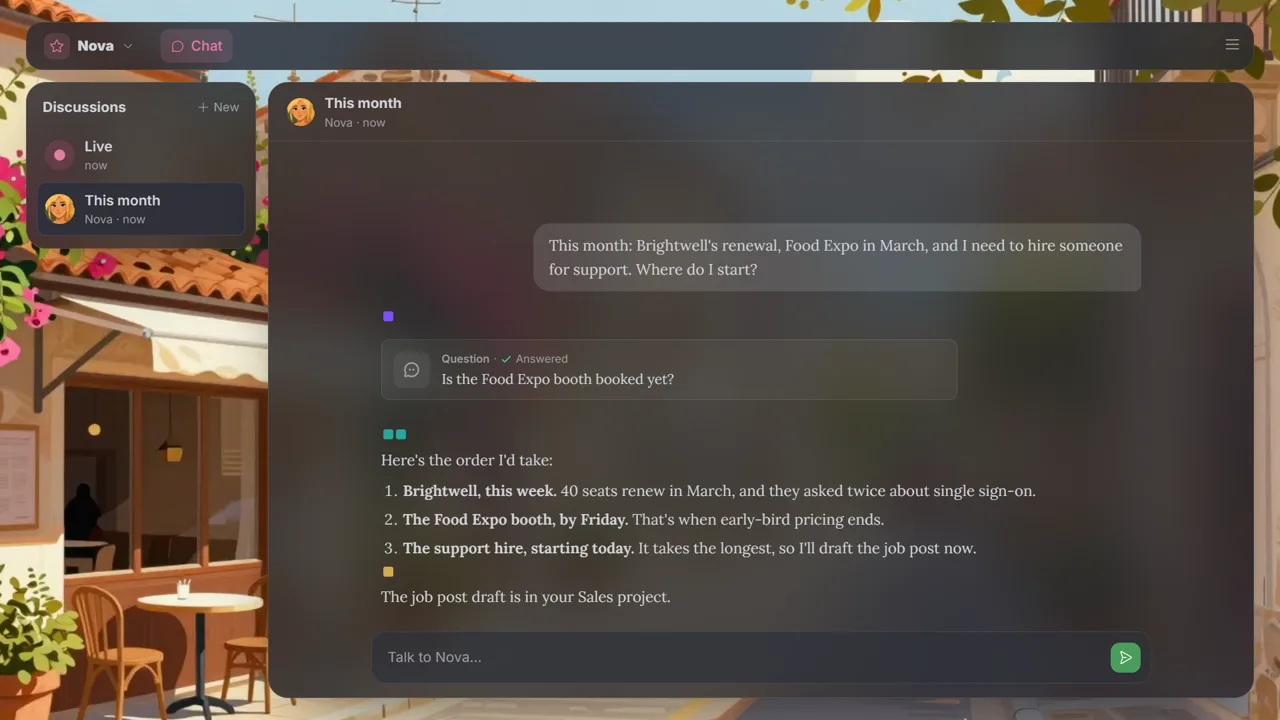
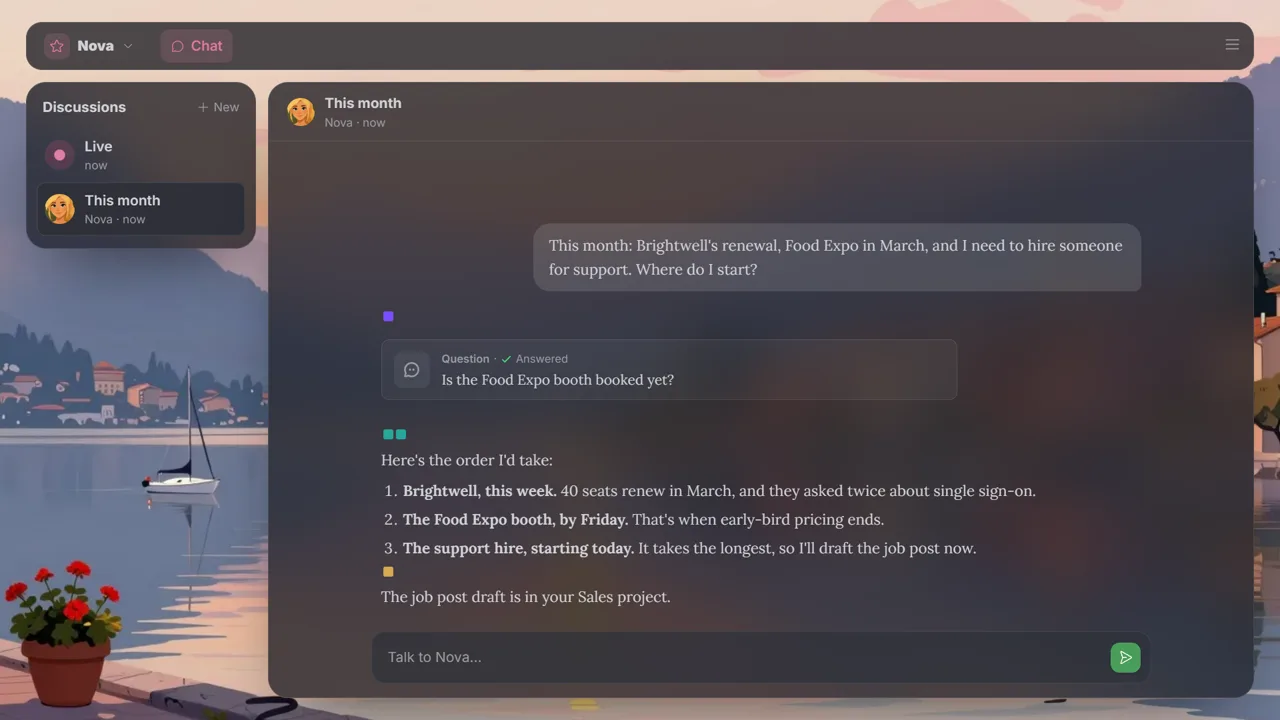
Cookbook video 00: new cut (2:12), poster and transcript

diff --git a/site/pages/fr/cookbook/videos/talking-to-nova/index.html b/site/pages/fr/cookbook/videos/talking-to-nova/index.html
@@ -1,6 +1,6 @@
 <!--page {"title":"Parler à Nova · Vidéo RedLeaf","description":"Épisode 00 des vidéos RedLeaf : une première vraie conversation avec Nova, chaque étape affichée au moment où elle la fait, une autorisation avant toute action risquée, et tout ce qu’une discussion peut lancer.","layout":"doc","section":"cookbook","slug":"videos/talking-to-nova"}-->
 <header class="cookbook-hero">
-  <p class="eyebrow">Vidéo · Épisode 00 · 2:18 · en anglais</p>
+  <p class="eyebrow">Vidéo · Épisode 00 · 2:12 · en anglais</p>
   <h1>Parler à Nova</h1>
   <p class="doc-lede">On n’apprend pas RedLeaf en cliquant dans des menus. On lui parle. Une première vraie conversation, ce qu’est un agent en dessous, et tout ce qu’une discussion peut lancer. La vidéo est en anglais ; la transcription ci-dessous est en français.</p>
 </header>
@@ -23,7 +23,7 @@
   <p>On n’apprend pas RedLeaf en cliquant dans des menus. On lui parle.</p>
   <p>Je suis Nova, l’agent fourni avec RedLeaf. Ayons une première conversation, une vraie.</p>
   <h3>Un premier message</h3>
-  <p>Ouvrez une discussion et dites ce que vous avez sur les bras, avec vos mots. Pas de formulation spéciale. S’il manque quelque chose, je pose la question au lieu de deviner. Puis je reviens avec un plan concret : le renouvellement d’abord, parce qu’il y a de l’argent en jeu, puis le salon, et le recrutement en dernier, parce que c’est ce qui prend le plus de temps.</p>
+  <p>Ouvrez une discussion et dites ce que vous avez sur les bras, avec vos mots. Pas de formulation spéciale. S’il manque quelque chose, je pose la question au lieu de deviner. Puis je reviens avec un plan concret, dans l’ordre qui compte, et je m’y mets.</p>
   <h3>Me regarder travailler</h3>
   <p>Chaque étape que je fais s’affiche sous forme d’un petit carré. Violet quand je réfléchis, turquoise quand je lis, doré quand je modifie quelque chose, et rose quand je confie du travail à une autre session. Cliquez sur l’un d’eux et vous voyez exactement ce qui est entré et ce qui est sorti. Ce n’est pas un résumé que j’ai rédigé. C’est ce que j’ai réellement fait.</p>
   <h3>Demander d’abord</h3>

diff --git a/site/pages/en/cookbook/videos/talking-to-nova/index.html b/site/pages/en/cookbook/videos/talking-to-nova/index.html
@@ -1,6 +1,6 @@
 <!--page {"title":"Talking to Nova · RedLeaf Cookbook video","description":"Episode 00 of the RedLeaf Cookbook videos: a first real conversation with Nova, every step she takes shown as it happens, approval before anything risky, and what one discussion can lead to.","layout":"doc","section":"cookbook","slug":"videos/talking-to-nova"}-->
 <header class="cookbook-hero">
-  <p class="eyebrow">Video · Episode 00 · 2:18</p>
+  <p class="eyebrow">Video · Episode 00 · 2:12</p>
   <h1>Talking to Nova</h1>
   <p class="doc-lede">You don't learn RedLeaf by clicking through menus. You talk to it. A first real conversation, what an agent is underneath, and everything one discussion can lead to.</p>
 </header>
@@ -23,7 +23,7 @@
   <p>You don't learn RedLeaf by clicking through menus. You talk to it.</p>
   <p>I'm Nova, the agent that comes with RedLeaf. Let's have a first conversation, a real one.</p>
   <h3>A first message</h3>
-  <p>Start a discussion, and say what's on your plate, in plain words. No special phrasing. If something's missing, I ask instead of guessing. Then I come back with a plan you can act on: the renewal first, because that's money on the table, then the trade show, and the hire last, because it takes the longest.</p>
+  <p>Start a discussion, and say what's on your plate, in plain words. No special phrasing. If something's missing, I ask instead of guessing. Then I come back with a plan you can act on, in the order that matters, and I start on it.</p>
   <h3>Watching me work</h3>
   <p>Every step I take shows up as a small square. Violet when I'm thinking, teal when I read, gold when I change something, and pink when I hand work to another session. Click one, and you see exactly what went in and what came out. It isn't a summary I wrote. It's what I actually did.</p>
   <h3>Asking first</h3>
